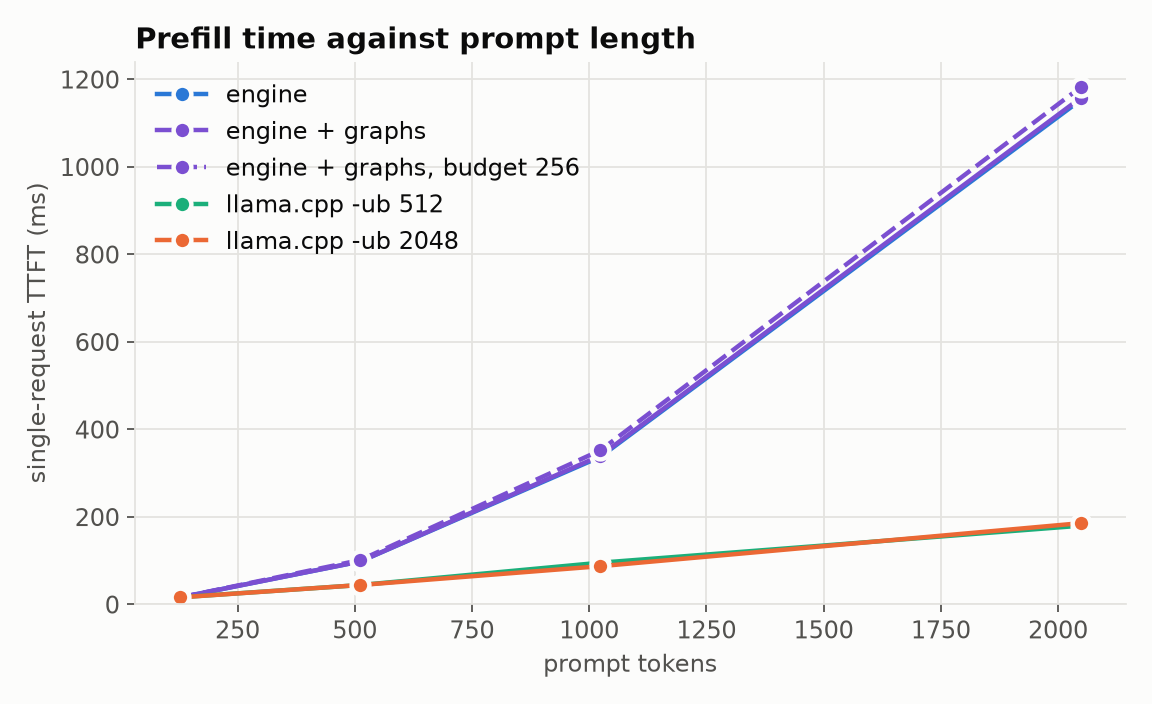
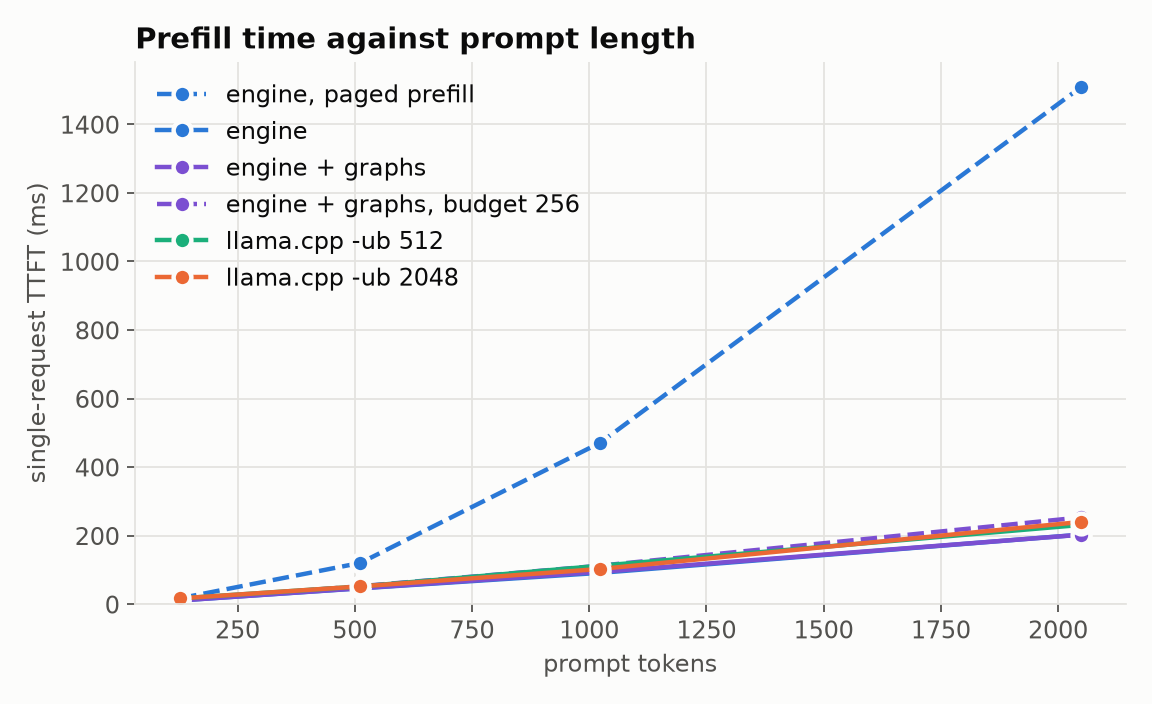
Make flash_attention_prefill the default and rerun the prefill results

diff --git a/scripts/prefill_ttft.py b/scripts/prefill_ttft.py
@@ -15,19 +15,22 @@ import plot  # noqa: E402
 
 ENGINE = "engine"
 GRAPHS = "engine + graphs"
+PAGED = "engine, paged prefill"
 LLAMA = "llama.cpp -ub 512"
 LLAMA_FULL = "llama.cpp -ub 2048"
-SYSTEMS = [ENGINE, GRAPHS, LLAMA, LLAMA_FULL]
-COLORS = {ENGINE: "engine", GRAPHS: "engine + graphs", LLAMA: "llama.cpp", LLAMA_FULL: "HF transformers"}
+SYSTEMS = [PAGED, ENGINE, GRAPHS, LLAMA, LLAMA_FULL]
+COLORS = {PAGED: "engine", ENGINE: "engine", GRAPHS: "engine + graphs", LLAMA: "llama.cpp", LLAMA_FULL: "HF transformers"}
 COLUMNS = ["system", "prompt_tokens", "run", "ttft_s", "date", "commit"]
 
 
-def engine_command(engine, model, prompt_len, run, warmup, out, graphs, budget=0):
+def engine_command(engine, model, prompt_len, run, warmup, out, graphs, budget=0, paged=False):
     cmd = [str(engine), "bench", "--model", str(model), "--max-batch", "1", "--num-requests", "1",
            "--prompt-len", str(prompt_len), "--output-len", "1", "--warmup", str(warmup),
            "--seed", str(run), "--out", str(out)]
     if graphs:
         cmd.append("--graphs")
+    if paged:
+        cmd += ["--prefill-attention", "paged"]
     return cmd + ["--token-budget", str(budget)] if budget else cmd
 
 
@@ -60,15 +63,15 @@ def llama_ttfts(rows):
 def measure(args):
     stamp = {"date": time.strftime("%Y-%m-%dT%H:%M:%SZ", time.gmtime()), "commit": args.commit}
     measured = []
-    engines = [(ENGINE, False, 0), (GRAPHS, True, 0)]
+    engines = [(PAGED, False, 0, True), (ENGINE, False, 0, False), (GRAPHS, True, 0, False)]
     if args.token_budget:
-        engines.append((f"{GRAPHS}, budget {args.token_budget}", True, args.token_budget))
+        engines.append((f"{GRAPHS}, budget {args.token_budget}", True, args.token_budget, False))
     with tempfile.TemporaryDirectory() as tmp:
         out = Path(tmp) / "bench.csv"
         for run in range(1, args.repeats + 1):
             for length in args.lengths:
-                for system, graphs, budget in engines:
-                    command = engine_command(args.engine, args.model, length, run, args.warmup, out, graphs, budget)
+                for system, graphs, budget, paged in engines:
+                    command = engine_command(args.engine, args.model, length, run, args.warmup, out, graphs, budget, paged)
                     subprocess.run(command, check=True, capture_output=True, text=True)
                     measured.append({"system": system, "prompt_tokens": length, "run": run,
                                      "ttft_s": read_engine_ttft(Path(tmp) / "bench_summary.csv"), **stamp})
@@ -133,7 +136,7 @@ def plot_ttft(rows, out, theme="light"):
         xs = sorted(by_length)
         base = base_system(system)
         ax.plot(xs, [statistics.median(by_length[n]) * 1e3 for n in xs], color=t["series"][COLORS[base]],
-                linestyle="-" if system == base else "--", linewidth=2, marker="o", markersize=8,
+                linestyle="-" if system == base and system != PAGED else "--", linewidth=2, marker="o", markersize=8,
                 markeredgecolor=t["surface"], markeredgewidth=2, label=system)
     ax.set_xlabel("prompt tokens")
     ax.set_ylabel("single-request TTFT (ms)")

diff --git a/src/app/bench_command.cpp b/src/app/bench_command.cpp
@@ -54,7 +54,7 @@ struct Options {
     bool graphs = false;
     int graph_steps = 2;
     int token_budget = 0;
-    std::string prefill_attention = "paged";
+    std::string prefill_attention = "flash";
     int warmup = 3;
     uint64_t seed = 0;
     float temperature = 0.0f;
@@ -158,7 +158,7 @@ void run(const Options& o) {
         throw std::invalid_argument("--token-budget needs --max-batch of at least 1");
     if (o.token_budget > 0 && o.token_budget < o.max_batch)
         throw std::invalid_argument("--token-budget must be at least --max-batch");
-    if (o.prefill_attention != "paged" && !batched)
+    if (o.prefill_attention != "flash" && !batched)
         throw std::invalid_argument("--prefill-attention needs --max-batch of at least 1");
     if (o.graph_steps < 1 || (o.graph_steps & (o.graph_steps - 1)) != 0)
         throw std::invalid_argument("--graph-steps must be a power of two");
@@ -360,8 +360,9 @@ void add_bench_command(CLI::App& app) {
         ->capture_default_str()
         ->check(CLI::NonNegativeNumber);
     cmd->add_option("--prefill-attention", opts->prefill_attention,
-                    "Attention kernel for prefill rows: paged runs them through the per-row "
-                    "decode kernels, flash through flash_attention_prefill; needs --max-batch")
+                    "Attention kernel for prefill rows: flash runs them through "
+                    "flash_attention_prefill, paged through the per-row decode kernels as before "
+                    "2026-11-10; paged needs --max-batch")
         ->capture_default_str()
         ->check(CLI::IsMember({"paged", "flash"}));
     cmd->add_option("--num-requests", opts->num_requests, "Requests to time")

diff --git a/tests/python/test_prefill_ttft.py b/tests/python/test_prefill_ttft.py
@@ -29,6 +29,16 @@ class Commands(unittest.TestCase):
         self.assertIn("--graphs", cmd)
         self.assertEqual(cmd[cmd.index("--token-budget") + 1], "512")
 
+    def test_the_paged_series_asks_for_the_old_prefill_attention(self):
+        cmd = pt.engine_command("engine", "m", 2048, 1, 2, "o.csv", False, 0, True)
+        self.assertEqual(cmd[cmd.index("--prefill-attention") + 1], "paged")
+        self.assertNotIn("--prefill-attention", pt.engine_command("engine", "m", 2048, 1, 2, "o.csv", False))
+
+    def test_the_paged_series_comes_first(self):
+        rows = [row(pt.ENGINE, 100, 1, 0.1), row(pt.PAGED, 100, 1, 0.2)]
+        text = pt.table_markdown(rows)
+        self.assertLess(text.index(f"| {pt.PAGED} |"), text.index("| engine |"))
+
     def test_llama_context_fits_the_longest_prompt_and_its_token(self):
         cmd = pt.llama_command("bin", "m", [128, 2048], 512)
         self.assertEqual(cmd[cmd.index("-c") + 1], "2049")

diff --git a/tests/gpu/test_paged_runner.cpp b/tests/gpu/test_paged_runner.cpp
@@ -381,8 +381,7 @@ TEST_F(PagedRunnerTest, RejectsBadPrefillChunks) {
     for (size_t row = 0; row < 3; ++row) good.block_tables[row * size_t(runner.max_blocks())] = 1;
     good.chunk_starts = {0, 3};
     good.cached_lens = {0};
-    EXPECT_FALSE(runner.flash_prefill());
-    runner.set_flash_prefill(true);
+    EXPECT_TRUE(runner.flash_prefill());
     EXPECT_NO_THROW(runner.forward(good));
 
     const auto rejected = [&](const auto& edit) {

diff --git a/include/engine/runtime/paged_runner.h b/include/engine/runtime/paged_runner.h
@@ -54,7 +54,7 @@ private:
     int64_t longest_context_ = 0;
     int64_t chunks_ = 0;
     int64_t decode_rows_ = 0;
-    bool flash_prefill_ = false;
+    bool flash_prefill_ = true;
     Stream stream_;
     DeviceBuffer workspace_;
     Blas blas_;

diff --git a/docs/results.md b/docs/results.md
@@ -414,34 +414,48 @@ Reading it. Every kernel ran at 2,790 to 2,812 MHz (the boost clock under load; 
 From `scripts/prefill_ttft.py`: one request per run at each prompt length, output length 1, with warmup requests of the same length first, so TTFT is the prefill of a warm process. The published throughput runs use 64-token prompts, which hides this curve.
 
 <!-- auto:prefill -->
-Measured 2026-11-05T07:07:06Z at commit 1693c46: one request per run, median of 5 runs.
+Measured 2026-11-10T12:33:36Z at commit 8297921: one request per run, median of 5 runs.
 
 TTFT in ms against prompt tokens, median (min to max):
 
 | system | 128 | 512 | 1,024 | 2,048 |
 |---|---|---|---|---|
-| engine | 15.7 (15.7 to 15.8) | 97.8 (97.3 to 98.2) | 337.0 (334.8 to 338.2) | 1152.2 (1150.5 to 1161.9) |
-| engine + graphs | 15.7 (15.6 to 15.7) | 97.8 (97.3 to 98.4) | 339.6 (338.1 to 342.0) | 1157.2 (1152.7 to 1184.1) |
-| engine + graphs, budget 256 | 15.7 (15.6 to 15.9) | 101.1 (100.8 to 102.5) | 351.9 (351.3 to 353.5) | 1181.6 (1178.6 to 1195.6) |
-| llama.cpp -ub 512 | 16.1 (14.9 to 17.1) | 44.0 (43.7 to 45.5) | 95.0 (94.8 to 95.7) | 179.5 (177.0 to 182.1) |
-| llama.cpp -ub 2048 | 15.8 (15.4 to 17.7) | 44.0 (43.7 to 46.7) | 87.0 (86.0 to 87.5) | 185.3 (184.4 to 186.6) |
+| engine, paged prefill | 17.7 (16.9 to 17.9) | 120.6 (118.4 to 121.0) | 471.6 (469.5 to 472.7) | 1507.9 (1505.8 to 1515.3) |
+| engine | 11.2 (11.2 to 11.5) | 46.4 (45.6 to 47.3) | 91.7 (91.6 to 94.8) | 203.1 (202.8 to 203.2) |
+| engine + graphs | 11.2 (11.2 to 11.7) | 46.9 (45.5 to 47.3) | 94.6 (91.9 to 94.8) | 202.7 (201.9 to 203.4) |
+| engine + graphs, budget 256 | 12.4 (11.9 to 13.3) | 52.7 (50.7 to 53.6) | 112.7 (108.6 to 114.2) | 253.3 (252.6 to 254.1) |
+| llama.cpp -ub 512 | 17.2 (16.4 to 17.4) | 51.9 (51.5 to 52.8) | 112.4 (110.8 to 112.7) | 231.4 (223.6 to 234.9) |
+| llama.cpp -ub 2048 | 17.2 (16.5 to 18.7) | 52.1 (51.2 to 52.2) | 103.0 (102.4 to 104.5) | 240.1 (236.6 to 244.5) |
 
 Median TTFT in ms per prompt token:
 
 | system | 128 | 512 | 1,024 | 2,048 |
 |---|---|---|---|---|
-| engine | 0.123 | 0.191 | 0.329 | 0.563 |
-| engine + graphs | 0.123 | 0.191 | 0.332 | 0.565 |
-| engine + graphs, budget 256 | 0.123 | 0.197 | 0.344 | 0.577 |
-| llama.cpp -ub 512 | 0.126 | 0.086 | 0.093 | 0.088 |
-| llama.cpp -ub 2048 | 0.124 | 0.086 | 0.085 | 0.090 |
+| engine, paged prefill | 0.139 | 0.236 | 0.461 | 0.736 |
+| engine | 0.088 | 0.091 | 0.090 | 0.099 |
+| engine + graphs | 0.088 | 0.092 | 0.092 | 0.099 |
+| engine + graphs, budget 256 | 0.097 | 0.103 | 0.110 | 0.124 |
+| llama.cpp -ub 512 | 0.135 | 0.101 | 0.110 | 0.113 |
+| llama.cpp -ub 2048 | 0.135 | 0.102 | 0.101 | 0.117 |
 <!-- /auto:prefill -->
 
-The engine's curve bends and llama.cpp's does not. At 128 tokens the two are level (15.7 ms against 15.8 and 16.1 ms). From 128 to 2,048 tokens, 16 times the tokens, the engine's TTFT grows 73 times, from 15.7 to 1,152.2 ms, and its cost per token grows from 0.123 to 0.563 ms, while llama.cpp stays between 0.085 and 0.126 ms per token at either micro-batch size. At 2,048 tokens the engine takes about 6 times as long as llama.cpp (1,152.2 against 179.5 and 185.3 ms). This fits how prefill runs: `build_paged_batch` makes one row per prompt token, each with a full copy of the block table, and each row runs the paged decode attention over its own context, so the KV reads grow with the square of the length. These runs do not separate that cost from the rest of the step, so the profile for [#103](https://github.com/joezhuo2/LLM-Inference-Engine/issues/103) still has to confirm it.
+With `flash_attention_prefill` the engine's prefill costs about the same per token at every length, as llama.cpp's does. The `engine, paged prefill` row is the path every result before 2026-11-10 used (`--prefill-attention paged`): one row per prompt token through the per-row decode attention, each row walking its whole context, so the KV reads grow with the square of the length and its cost per token climbs from 0.139 to 0.736 ms between 128 and 2,048 tokens. The `engine` rows run the prefill rows through the tiled kernel instead and stay between 0.088 and 0.099 ms per token. At 2,048 tokens TTFT goes from 1,507.9 to 203.1 ms (7.4 times less), at 1,024 from 471.6 to 91.7 ms, at 512 from 120.6 to 46.4 ms and at 128 from 17.7 to 11.2 ms. llama.cpp takes 231.4 and 240.1 ms at 2,048 tokens in the same session, so the engine is now ahead at every length measured, by 12% at 2,048 against `-ub 512` and by 35% at 128, where before it took 6 times as long. The attention share of what is left was not profiled; the 203.1 ms still contains 88 tensor-core GEMMs, which took 71.6 ms for 1,024 rows in the batch-16 profile above.
 
-Graphs make no difference here: `DecodeGraphs::covers` refuses prefill batches, so both engine series run the same eager path and differ only by noise. What differs between the systems: the engine's TTFT includes sampling the first token and its host work, while llama.cpp's is `t_pp` from `llama-batched-bench`, the time of the prompt's decode calls with no sampler. llama.cpp feeds its own tokens rather than the engine's workload, runs at its default flash attention setting (`auto`) and keeps its KV cache in F16, with a context of the prompt plus one token, which at 2,048 is one over the model's position limit. Longer prompts cannot be measured on this model, since the bench refuses more than TinyLlama's 2,048 positions. All of it is from this one laptop GPU, whose clocks move between runs, so the table shows the spread of the runs as well as the median. This run (2026-11-05, the same session as the sweep above) is faster for every system than the 2026-11-03 run it replaces, by 28% for the engine and 32% for llama.cpp at 2,048 tokens, with a spread under 3% of the median for the engine, so the ratios hold while the absolute times moved with the machine.
+### FlashAttention prefill kernels
 
-The `engine + graphs, budget 256` row is the same prompt alone under `--token-budget 256`, so a 2,048-token prompt runs as 8 chunks in 8 steps. It costs 2.1% more at 2,048 tokens (1,181.6 against 1,157.2 ms) and 3% to 4% more at 512 and 1,024: the extra steps add host work and smaller GEMMs, but the attention work is the same, since every chunk row still reads its whole context so far. Chunking spreads prefill out; it does not make it cheaper.
+Three attention paths for the same prefill, one request per run, median of 5 runs (min to max), TTFT in ms. The first two rows of each engine build are in the table above; the first flash kernel is the one merged in #185, measured with the wiring of this branch and that kernel (commit 9cff334, `results/prefill/first_flash_kernel.csv`), in the same session:
+
+| prefill attention | 128 | 512 | 1,024 | 2,048 |
+|---|---|---|---|---|
+| paged decode kernels | 17.7 (16.9 to 17.9) | 120.6 (118.4 to 121.0) | 471.6 (469.5 to 472.7) | 1507.9 (1505.8 to 1515.3) |
+| flash, first kernel | 16.9 (16.1 to 17.0) | 128.6 (126.5 to 128.9) | 474.8 (470.5 to 482.6) | 1638.2 (1636.6 to 1641.3) |
+| flash, tiled kernel | 11.2 (11.2 to 11.5) | 46.4 (45.6 to 47.3) | 91.7 (91.6 to 94.8) | 203.1 (202.8 to 203.2) |
+
+The first kernel read the chunk's keys and values from qkv instead of the cache and kept an online softmax, but it still ran one thread block per row and query head and walked the keys one at a time, with two barriers per key, so it did the same quadratic work as the decode kernels and came out 9% slower at 2,048 tokens. The tiled kernel gives each warp 16 query rows of one head and streams the keys past them 16 at a time through `mma.sync` on the tensor cores: the reads still grow with the square of the length, but each key tile is read once per 16 rows instead of once per row, and the dot products run at tensor-core rate. Details in `docs/profiling.md`, "FlashAttention prefill".
+
+Graphs make no difference here: `DecodeGraphs::covers` refuses prefill batches, so both engine series run the same eager path and differ only by noise. What differs between the systems: the engine's TTFT includes sampling the first token and its host work, while llama.cpp's is `t_pp` from `llama-batched-bench`, the time of the prompt's decode calls with no sampler. llama.cpp feeds its own tokens rather than the engine's workload, runs at its default flash attention setting (`auto`) and keeps its KV cache in F16, with a context of the prompt plus one token, which at 2,048 is one over the model's position limit. Longer prompts cannot be measured on this model, since the bench refuses more than TinyLlama's 2,048 positions. All of it is from this one laptop GPU, whose clocks move between runs, so the table shows the spread of the runs as well as the median. This run (2026-11-10) is slower for the unchanged systems than the 2026-11-05 run it replaces, by 31% for the paged engine path (1,507.9 against 1,152.2 ms) and 29% for llama.cpp (231.4 against 179.5 ms) at 2,048 tokens, so compare rows of this table with each other and not with earlier sections. The sections "Under load" and "A long prompt among running requests" were measured before the tiled kernel, with paged prefill, and have not been rerun.
+
+The `engine + graphs, budget 256` row is the same prompt alone under `--token-budget 256`, so a 2,048-token prompt runs as 8 chunks in 8 steps. With the tiled kernel it costs 25% more at 2,048 tokens (253.3 against 202.7 ms), 19% more at 1,024 and 12% more at 512; with paged prefill on 2026-11-05 the same split cost 2.1% (1,181.6 against 1,157.2 ms). In absolute terms the split costs about 50 ms now against 24 ms then, and it shows because a second of attention no longer sits under it. The extra steps add host work and smaller GEMMs, and a later chunk reads its cached prefix through the block table; which of these dominates was not profiled.
 
 ## Kernels
 
@@ -453,6 +467,7 @@ Every kernel exists twice, a naive one that is obviously correct (the test oracl
 | `paged_attention_decode` | v1 (one block per head and row, scores in shared memory) is the oracle and the "before" number; `paged_attention_decode_v2` (online softmax, 8 lanes per key, value sum spread over all threads, no context cap) is called by the forward pass | `tests/gpu/test_paged_attention.cpp`, `tests/gpu/test_paged_attention_v2.cpp`, `tests/gpu/test_paged_attention_split.cpp` | v2 is 1.4x to 3.6x faster than v1 per launch (1 row, context 2,048: 600 to 165 us; 16 rows, context 512: 565 to 193 us) and runs a context of 8,192 that v1 cannot; Nsight Compute: 1,310 to 383 us at 1 row and context 2,048, details in `docs/profiling.md`, "Paged attention v2"; in the decode profile (32 prompt and 32 output tokens) attention went from 883 to 272 us per step (11.5% to 3.8% of kernel time) once v2 was wired in, `docs/profiling.md`, "Paged attention v2 in the forward pass"; `paged_attention_decode_split` (the context of a row cut across blocks, partials merged in split order) is 2.8x faster than v2 at 1 row and 2,048 tokens and takes the batch-1 TPOT at a 1,984-token prompt from 14.7 to 10.2 ms eager and from 14.0 to 9.1 ms with graphs, `docs/profiling.md`, "Split-context attention", "Split attention in the forward pass" and "Split attention in CUDA Graphs" | yes, v2, and split for 1 to 4 rows at 512 tokens or more (eager and graph replays) |
 | `write_kv` | one thread per element (the only version) | `tests/gpu/test_write_kv.cpp` | measured once, no before and after: 3.8 us per launch at 1 to 16 rows, 9.3 us at 512 rows, 0.4% of a batch-1 step in Nsight Systems; `docs/profiling.md`, "write_kv" | yes |
 | add + RMSNorm | `fast::add_rmsnorm` (fused; 128-bit loads, row kept in registers) | `tests/gpu/test_add_rmsnorm.cpp` | `docs/profiling.md`, "Fused add_rmsnorm" and "Tuning add_rmsnorm" (10.9 to 4.0 us at 1 token, 11.1 to 5.3 us at 64; 105 us less per decode step) | yes, fused with the residual add |
+| Prefill attention | `flash_attention_prefill` (16 query rows of one head per warp, keys 16 at a time through `mma.sync`, online softmax per row, the chunk's keys and values read from qkv); the per-row decode kernels remain as `--prefill-attention paged` | `tests/gpu/test_flash_prefill.cpp`, `tests/gpu/test_paged_runner.cpp` | not profiled with Nsight Compute; TTFT at 2,048 prompt tokens 1,507.9 to 203.1 ms, "Prefill against prompt length" above | yes, default since 2026-11-10 |
 | Embedding lookup | `fast::embedding` (one thread per 16 bytes over every row, scalar when the width is not a multiple of 8 or a pointer is unaligned) | `tests/gpu/test_embedding.cpp`, `tests/gpu/test_embedding_fast.cpp` | nsys, max batch 16 with 512-token prompts, 2026-11-09: a decode step 4.5 to 1.5 us, a 2,048-token prefill step 72 to 79 us to 35 to 37 us; under 0.1% of a step either way | yes |
 | RoPE | `fast::rope` | `tests/gpu/test_rope_fast.cpp` | `docs/profiling.md`, "Fast RoPE" | yes |
 | SwiGLU | `fast::swiglu` (vectorized, scalar below 5 tokens) | `tests/gpu/test_swiglu_fast.cpp` | `docs/profiling.md`, "Fast SwiGLU" and "Small batches" | yes |

diff --git a/changelog.md b/changelog.md
@@ -7,6 +7,7 @@ Changes are grouped by branch, newest first, in the order the branches merge int
 - Wire `flash_attention_prefill` into `PagedRunner` behind a switch (#103). `PagedBatch` gains `chunk_starts` and `cached_lens` (filled by `build_paged_batch` for whole-prompt prefill steps and by `build_chunked_batch` for chunks, empty for decode steps), with `decode_rows()` and `longest_decode_context()`. `PagedRunner::stage` checks them (chunks end at the last row, none empty, `cached_lens` equal to the position of the chunk's first row, at most `max_seqs` chunks) and copies them and one block table row per chunk after the per-token arrays, whose offsets do not move, so captured decode graphs are unchanged. With `set_flash_prefill(true)`, `run_staged` sends the decode rows to the v2 or split kernel (the split count now comes from the decode rows only) and the chunk rows to `flash_attention_prefill`; the default stays the per-row decode kernels for every row. `engine bench --prefill-attention paged|flash` selects it and the summary CSV records `prefill_attention`. Tests: chunk fields in `tests/unit/test_paged_batch.cpp`; in `tests/gpu/test_paged_runner.cpp` whole-prompt and budget-8 runs of four prompts give the same argmax and logits within 5% relative L2 with either kernel, and bad chunk descriptions are rejected. Measured with the kernel as merged in #185 (release, RTX 5060 Laptop GPU, 2026-11-10, single request, 3 runs): TTFT 1,646 against 1,468 ms at 2,048 prompt tokens, 127 against 120 ms at 512 and level at 128, so it is 12% slower than the path it replaces and stays off. (Part B)
 - Move `test_flash_prefill.cpp` from `todo_gpu_tests` to `gpu_tests` (`tests/gpu/`) and delete the `todo_gpu_tests` target: all 24 tests pass against the kernel merged in #185, and no todo targets remain. (Part A)
 - Rewrite `flash_attention_prefill_kernel` as the tiled kernel its spec asked for. One warp owns 16 query rows of one query head (4 warps, so 4 heads, per thread block; the grid is 16-row tiles by groups of 4 heads) and streams the keys past them 16 at a time: Q K^T through `mma.sync.aligned.m16n8k16` on the tensor cores (two 8-key halves, head_dim / 16 steps each, FP32 accumulators), each score rounded as before, a causal mask, an online softmax per row with the row maximum and sum reduced over the 4 lanes that share a row, the weights rounded to BF16, then P V through the same mma into FP32 accumulators that stay in registers (head_dim / 8 columns; the value columns are interleaved so each lane reads its 8 values of a key with contiguous loads). The Q tile is loaded once per chunk segment; keys and values come from the paged cache below `cached_lens` and from qkv above it, as zeros past the last row of the segment, so nothing outside the context is read. No shared memory, no barriers, nothing shared between warps. A tile that spans several chunks handles them one after another. The kernel is a template on head_dim (16 to 128 in steps of 16) so the fragments unroll into registers, and qkv and both caches must be 4-byte aligned. All 24 kernel tests pass unchanged, including bit-identity alone or in a batch and whatever follows a row. Measured (release, RTX 5060 Laptop GPU, 2026-11-10, single request, 3 runs): TTFT 224 against 1,471 ms with the per-row decode kernels at 2,048 prompt tokens, 92 against 393 at 1,024, 47 against 120 at 512 and 13 against 19 at 128. (Part C, written by Claude at Joe's request)
+- Make `flash_attention_prefill` the default prefill attention (`PagedRunner`, so `engine serve` too; `engine bench --prefill-attention paged` gives the per-row decode kernels) and rerun the prefill section: `scripts/prefill_ttft.py` gains an `engine, paged prefill` series, and `docs/results.md` records TTFT 1,507.9 to 203.1 ms at 2,048 prompt tokens against llama.cpp's 231.4 ms in the same session (ahead at every length; 0.088 to 0.099 ms per prompt token), a table of the three attention paths with the first kernel from `results/prefill/first_flash_kernel.csv`, a Kernels row, and that chunking a lone prompt with a budget of 256 now costs 25% at 2,048 tokens. `docs/profiling.md` gets "FlashAttention prefill" with the layout, what was not tried and what was not measured (no Nsight Compute run, no memcheck). "Under load" and the long-prompt stall were not rerun. (Part B, results Part A)
 
 ## web/practice-pass
 

diff --git a/docs/profiling.md b/docs/profiling.md
@@ -325,3 +325,13 @@ Dynamic shared memory per thread block of the two decode attention kernels, comp
 | 8,192 | n/a | 3,456 |
 
 Reading it. v1's context limit is not shared memory running out: at its cap of 2,048 tokens it uses 9,344 bytes, 19% of the default limit, and the formula would reach the limit only near 12,000 tokens. The cap is `kMaxContext = 2048` in the host code, which rejects any block table longer than that (TinyLlama's full context), and that check is why the 8,192-token rows of "Paged attention v2" read n/a for v1 (it would have needed 33,920 bytes). The sentence there that v1 "cannot run a context of 8,192 because its scores live in shared memory" is right about the cause of the design and not about the limit. Neither kernel is limited by shared memory per SM at these sizes ("Split attention occupancy" measured v2 at 6 blocks per SM from registers and warps, 14 from shared memory). The bytes were not yet confirmed with Nsight Compute's `launch__shared_mem_per_block_dynamic`, because the GPU was unavailable when this was written.
+
+## FlashAttention prefill (Branch 136)
+
+`flash_attention_prefill` (`src/kernels/flash_prefill.cu`) replaces the per-row decode attention for prefill rows. Numbers: `docs/results.md`, "Prefill against prompt length" and "FlashAttention prefill kernels" (release, RTX 5060 Laptop GPU, 2026-11-10).
+
+Layout. One warp owns a tile of 16 query rows for one query head; a thread block is 4 warps, so 4 heads, and the grid is ceil(rows / 16) by ceil(heads / 4). The warp loads its Q tile once into the A fragments of `mma.sync.aligned.m16n8k16` (head_dim / 16 steps of 16 dimensions, 4 registers each). Keys go past in tiles of 16 positions aligned to the sequence, two halves of 8 keys: for each half and each step every lane loads two 4-byte words of one key row as the B fragment, and head_dim / 16 mma calls accumulate the 16 x 8 scores in FP32. A lane then holds the scores of its two query rows against four keys, which is exactly the A fragment of the next product, so nothing moves between lanes: each score is rounded to BF16, scaled and rounded again as in the other attention kernels, masked where the key is after the query, and the row maximum and sum are reduced over the 4 lanes that share a row with two shuffles. The weights exp(s - m) are rounded to BF16 and multiplied with V through the same mma into FP32 accumulators (head_dim / 8 columns of 4 registers) that are rescaled by exp(m_old - m_new) when a row's maximum rises. The value columns are interleaved (column g of step n is dimension g * head_dim / 8 + n), so the 8 values a lane needs from one key are contiguous and load as words. Keys below `cached_lens` come from the paged cache through the chunk's block table row, keys of the chunk from qkv, and keys past the last row of the tile's segment are zeros, which keeps a row independent of what follows it. No shared memory and no barriers; warps share nothing.
+
+What was tried. One design, the one above: 16 x 16 tiles are what a single warp can hold in registers at head_dim 64 (16 words of Q, 32 accumulators) and what one mma shape gives without moving data between lanes. Not tried: larger query tiles per warp, staging K and V tiles in shared memory with 16-byte loads so the 8 query heads of a kv head share one read, a shift instead of a division for power-of-two block sizes, more or fewer warps per block. Not measured: Nsight Compute on the kernel (tensor pipe utilization, bytes read against the bytes of K and V the chunk needs, occupancy), the attention share of a prefill step in Nsight Systems, compute-sanitizer memcheck on the 24 tests.
+
+Reading it. The first kernel (#185) kept the decode kernels' shape, one thread block per row and head with the keys one at a time, and was 9% slower than they are at 2,048 tokens: reading the chunk from qkv instead of the cache saves nothing when every row still walks every key alone and waits at two barriers per key. The tiled kernel does the same number of score and value products (they grow with the square of the prompt) but 16 rows share each key tile and the products run on the tensor cores, and TTFT at 2,048 tokens falls from 1,507.9 to 203.1 ms. Reproduce: `python scripts/prefill_ttft.py --llama-batched-bench <path> --token-budget 256`, and `engine bench --prefill-attention paged` for the old path.

diff --git a/README.md b/README.md
@@ -116,13 +116,14 @@ Decoding one token at batch 1 reads every weight except all but one row of the e
 - **Paged decode attention:** version 1 keeps the scores in shared memory (context capped at 2,048); version 2 uses an online softmax with one thread block per query head and sequence, which removes the cap; the 8 query heads that share a KV head each read its K and V in their own block. For 1 to 4 sequences at 512 tokens or more, a split version cuts each context across several blocks and merges their partial softmax results, which fills the GPU at batch 1 (2.8x faster attention at 2,048 tokens).
 - **Continuous batching:** waiting, running and finished queues, admission by free blocks, and recompute-style preemption when the cache runs out. By default each step is all prefill or all decode; with `--token-budget N` (chunked prefill) a step holds at most N tokens, decode rows first and prompts split across steps, which under Poisson arrivals cuts the longest wait between two tokens about threefold at a budget of 256 (`docs/results.md`, "Under load").
 - **Sampling on the GPU:** greedy, Gumbel-max for temperature sampling, and top-k and top-p through binary-searched thresholds instead of a full sort of the vocabulary.
+- **FlashAttention-style prefill:** prompt rows go through `flash_attention_prefill`, a causal kernel that gives each warp 16 query rows of one head and streams the keys past them 16 at a time through `mma.sync` on the tensor cores with an online softmax per row; a 2,048-token prompt reaches its first token in 203 ms instead of 1,508 ms (llama.cpp 231 ms, same session, `docs/results.md`). `engine bench --prefill-attention paged` keeps the old per-row path.
 - **CUDA Graphs:** with `--graphs` decode is captured for batch sizes 1, 2, 3, 4, 6, 8, 12, 16 and so on up to the max batch (two per power of two, `--graph-steps 2`, the default; 1 keeps only the powers of two and 4 adds 5, 7, 10, 14 and so on, fewer padded rows for more graphs; `docs/results.md`, "Batch size past 16", measured the choice) and replayed from fixed device buffers, which removes per-kernel launch overhead; each batch size that can split its attention also gets one graph per split count, so long contexts replay the split kernel too; prefill runs eagerly.
 - **Serving over HTTP:** one thread owns the scheduler and the GPU, so the kernels and scheduler need no locks. A cancel takes effect between steps because `update` matches tokens to sequences by batch row, and a client that reads slowly loses step events rather than holding up the engine.
 - **Portable headers:** public headers in `include/engine/` contain no CUDA includes, so the pure C++ parts (config, parser, layout planner, checksums) build and test on machines without a GPU, including macOS.
 
 ## Beyond the MVP
 
-Llama-3.2-1B and other models, FP8 and INT8 Tensor Core GEMMs, FlashAttention-style prefill, prefix caching and copy-on-write blocks and speculative decoding.
+Llama-3.2-1B and other models, FP8 and INT8 Tensor Core GEMMs, prefix caching and copy-on-write blocks and speculative decoding.
 
 ## Hardware
 

diff --git a/results/prefill/prefill.md b/results/prefill/prefill.md
@@ -1,21 +1,23 @@
-Measured 2026-11-05T07:07:06Z at commit 1693c46: one request per run, median of 5 runs.
+Measured 2026-11-10T12:33:36Z at commit 8297921: one request per run, median of 5 runs.
 
 TTFT in ms against prompt tokens, median (min to max):
 
 | system | 128 | 512 | 1,024 | 2,048 |
 |---|---|---|---|---|
-| engine | 15.7 (15.7 to 15.8) | 97.8 (97.3 to 98.2) | 337.0 (334.8 to 338.2) | 1152.2 (1150.5 to 1161.9) |
-| engine + graphs | 15.7 (15.6 to 15.7) | 97.8 (97.3 to 98.4) | 339.6 (338.1 to 342.0) | 1157.2 (1152.7 to 1184.1) |
-| engine + graphs, budget 256 | 15.7 (15.6 to 15.9) | 101.1 (100.8 to 102.5) | 351.9 (351.3 to 353.5) | 1181.6 (1178.6 to 1195.6) |
-| llama.cpp -ub 512 | 16.1 (14.9 to 17.1) | 44.0 (43.7 to 45.5) | 95.0 (94.8 to 95.7) | 179.5 (177.0 to 182.1) |
-| llama.cpp -ub 2048 | 15.8 (15.4 to 17.7) | 44.0 (43.7 to 46.7) | 87.0 (86.0 to 87.5) | 185.3 (184.4 to 186.6) |
+| engine, paged prefill | 17.7 (16.9 to 17.9) | 120.6 (118.4 to 121.0) | 471.6 (469.5 to 472.7) | 1507.9 (1505.8 to 1515.3) |
+| engine | 11.2 (11.2 to 11.5) | 46.4 (45.6 to 47.3) | 91.7 (91.6 to 94.8) | 203.1 (202.8 to 203.2) |
+| engine + graphs | 11.2 (11.2 to 11.7) | 46.9 (45.5 to 47.3) | 94.6 (91.9 to 94.8) | 202.7 (201.9 to 203.4) |
+| engine + graphs, budget 256 | 12.4 (11.9 to 13.3) | 52.7 (50.7 to 53.6) | 112.7 (108.6 to 114.2) | 253.3 (252.6 to 254.1) |
+| llama.cpp -ub 512 | 17.2 (16.4 to 17.4) | 51.9 (51.5 to 52.8) | 112.4 (110.8 to 112.7) | 231.4 (223.6 to 234.9) |
+| llama.cpp -ub 2048 | 17.2 (16.5 to 18.7) | 52.1 (51.2 to 52.2) | 103.0 (102.4 to 104.5) | 240.1 (236.6 to 244.5) |
 
 Median TTFT in ms per prompt token:
 
 | system | 128 | 512 | 1,024 | 2,048 |
 |---|---|---|---|---|
-| engine | 0.123 | 0.191 | 0.329 | 0.563 |
-| engine + graphs | 0.123 | 0.191 | 0.332 | 0.565 |
-| engine + graphs, budget 256 | 0.123 | 0.197 | 0.344 | 0.577 |
-| llama.cpp -ub 512 | 0.126 | 0.086 | 0.093 | 0.088 |
-| llama.cpp -ub 2048 | 0.124 | 0.086 | 0.085 | 0.090 |
+| engine, paged prefill | 0.139 | 0.236 | 0.461 | 0.736 |
+| engine | 0.088 | 0.091 | 0.090 | 0.099 |
+| engine + graphs | 0.088 | 0.092 | 0.092 | 0.099 |
+| engine + graphs, budget 256 | 0.097 | 0.103 | 0.110 | 0.124 |
+| llama.cpp -ub 512 | 0.135 | 0.101 | 0.110 | 0.113 |
+| llama.cpp -ub 2048 | 0.135 | 0.102 | 0.101 | 0.117 |
